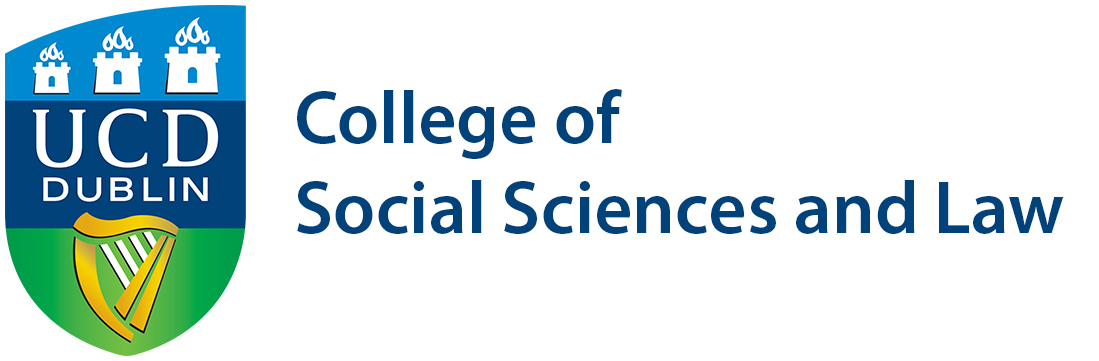
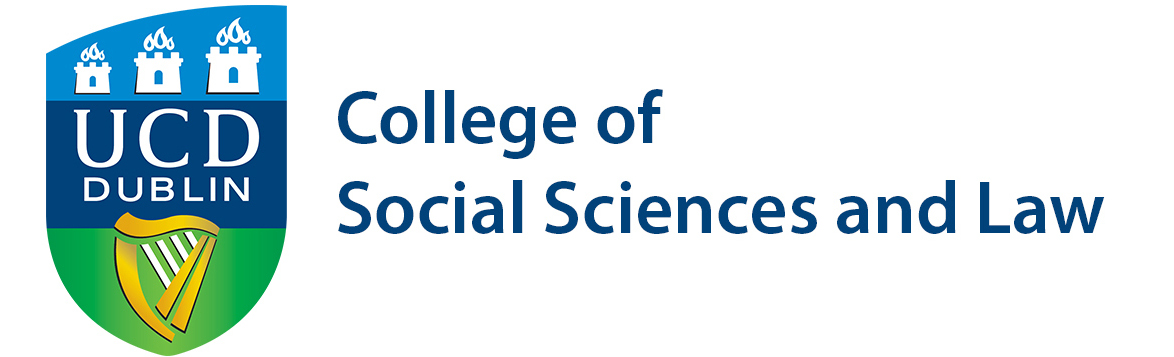
launch version

Changed region(s): [[0.0, 0.0, 0.99, 1.0], [0.5569, 0.2465, 0.5878, 0.2773]]

diff --git a/app/index.html b/app/index.html
@@ -124,7 +124,7 @@ layout: default
           <li>Newsroom challenges with respect to data journalism, best practices, success and failure stories</li>
         </ul>
       </p>
-      <p>Extended Abstracts presented at the conference will be archived in proceedings compiled by the Library of University College Dublin. Selected full papers from the conference will be invited to submit to a special issue of the JOMEC journal, or to an issue of Digital Journalism, Journalism Studies, or Journalism Practice.</p>
+      <p>Academic Extended Abstracts presented at the conference will be archived in proceedings compiled by the Library of University College Dublin. Selected full papers from the conference will be invited to submit to a special issue of the JOMEC journal, or to an issue of Digital Journalism, Journalism Studies, or Journalism Practice.</p>
       <p>For any questions about submissions or the conference, please <a href="mailto:hello@datajconf.com">email us</a>, contact one of the <a href="#organisers">organisers</a> directly, or get in touch via <a href="http://www.twitter.com/intent/user?screen_name=datajconf">twitter</a>.</p>
       <a class="button animated fadeIn" href="https://easychair.org/conferences/?conf=datajconf2017">Submit Talk</a>
     </div>
@@ -159,13 +159,16 @@ layout: default
           <h2>Program Committee</h2>
           <p>
             <ul>
-                <li>James Hamilton (Stanford University)</li>
-                <li>Nicholas Diakopoulos (University of Maryland)</li>
-                <li>Meredith Broussard (New York University)</li>
-                <li>Cheryl Phillips (Stanford University)</li>
-                <li>Bahareh Heravi (University College Dublin)</li>
-                <li>Glyn Mottershead (Cardiff University)</li>
-                <li>Martin Chorley (Cardiff University)</li>
+                <li>James Hamilton (Stanford University, U.S.)</li>
+                <li>Nicholas Diakopoulos (University of Maryland, U.S.)</li>
+                <li>Meredith Broussard (New York University, U.S.)</li>
+                <li>Cheryl Phillips (Stanford University, U.S.)</li>
+                <li>Eddy Borges Rey, (University of Stirling, Scotland, U.K.)</li>
+                <li>Marc Esteve del Valle (University of Groningen, The Netherlands)</li>
+                <li>Miranda McLachlan (Goldsmiths, University of London, U.K.)</li>
+                <li>Bahareh Heravi (University College Dublin, Ireland)</li>
+                <li>Glyn Mottershead (Cardiff University, Wales, U.K.)</li>
+                <li>Martin Chorley (Cardiff University, Wales, U.K.)</li>
                 <li> + more tba ...</li>
             </ul>
           </p>

diff --git a/app/_includes/head.html b/app/_includes/head.html
@@ -14,12 +14,12 @@
       <meta name="twitter:card" content="summary" />
        <meta name="twitter:site" content="@{{ site.twitter_username }}" />
        <meta name="twitter:creator" content="@{{ site.twitter_username }}" />
-       <meta name="twitter:image" content="/img/logo/logo.png" />
+       <meta name="twitter:image" content="/img/logo/logo_small.png" />
        <meta property="og:url" content="{{ page.url | replace:'index.html','' | prepend: site.baseurl | prepend: site.url }}" />
        <meta property="og:site_name" content="{{ site.title }}"/>
        <meta property="og:title" content="{% if page.title %}{{ page.title }}{% else %}{{ site.title }}{% endif %}" />
        <meta property="og:description" content="{% if page.excerpt %}{{ page.excerpt | strip_html | strip_newlines }}{% else %}{{ site.description | strip_html | normalize_whitespace | truncate: 250 | escape }}{% endif %}" />
-       <meta property="og:image" content="/img/logo/logo.png" />
+       <meta property="og:image" content="/img/logo/logo_small.png" />
 
        <link rel="apple-touch-icon" sizes="180x180" href="/apple-touch-icon.png">
       <link rel="icon" type="image/png" href="/favicon-32x32.png" sizes="32x32">

diff --git a/Gruntfile.js b/Gruntfile.js
@@ -249,7 +249,7 @@ module.exports = function(grunt) {
         imagemin: {
             options: {
                 progressive: true,
-                optimizationLevel: 3
+                optimizationLevel: 7
             },
             dist: {
                 files: [{

diff --git a/app/_assets/js/test.js b/app/_assets/js/test.js
@@ -1,4 +1,6 @@
-new WOW().init();
+new WOW({
+    mobile: false
+}).init();
 
 function updateCountdown(ts) {
   var clock = document.getElementById('clockdiv');

diff --git a/todo.md b/todo.md
@@ -11,4 +11,4 @@
 
 * * *
 
-Last generated: Mon Mar 06 2017 16:35:59 by [grunt-todo](https://github.com/leny/grunt-todo).
+Last generated: Tue Mar 07 2017 12:40:07 by [grunt-todo](https://github.com/leny/grunt-todo).
